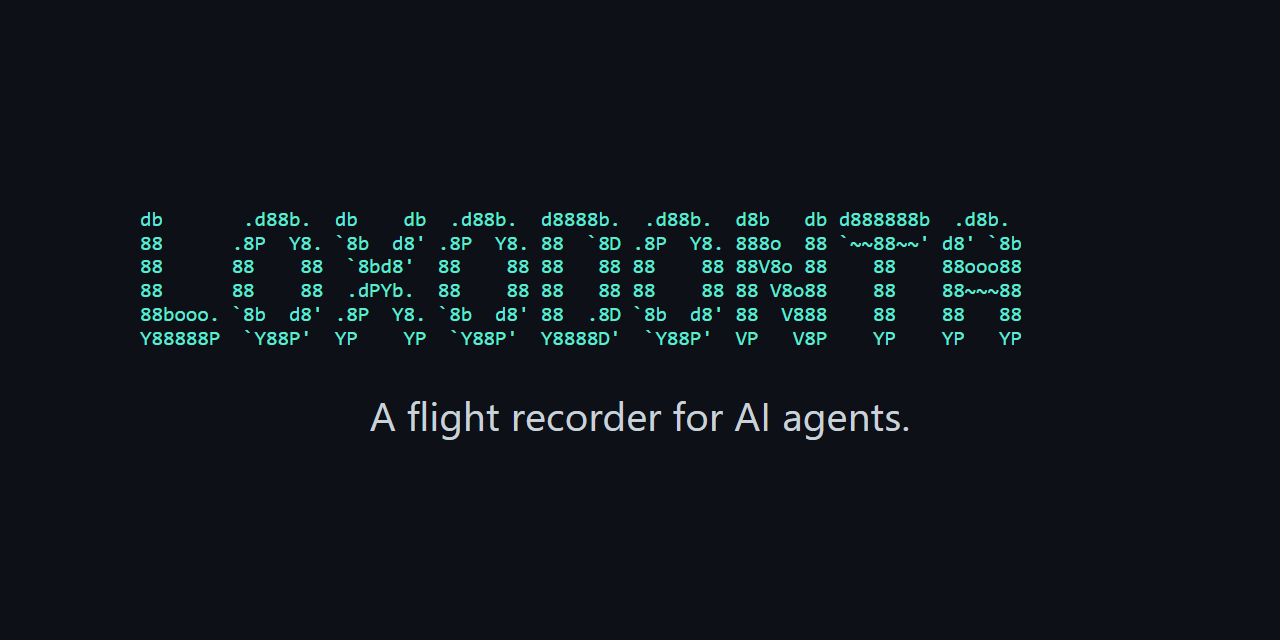
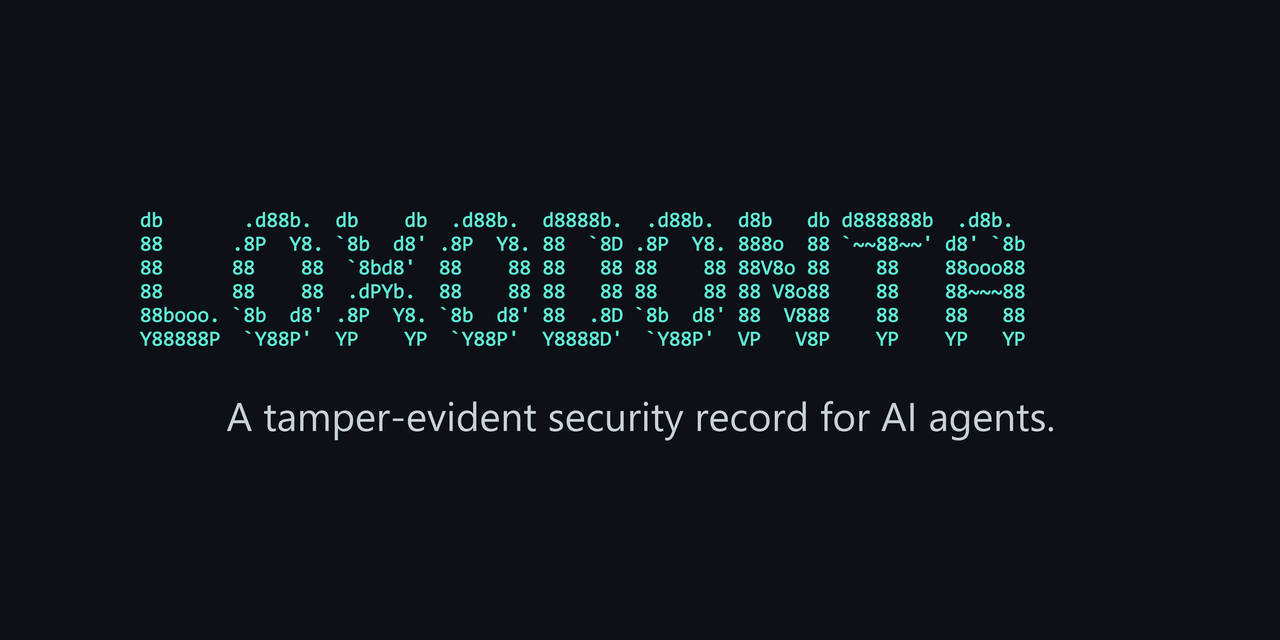
Social preview: the README's current tagline, rebuilt by a tool
docs/images/social-preview.png still read "A flight recorder for AI
agents." while the README's first line has been "A tamper-evident
security record for AI agents." since 2026-10-02, and GitHub serves
the image on every shared link. tools/build_social_preview.py now
draws the card from docs/images/wordmark.svg and the README's bold
tagline line, in the fonts and at the placement measured from the
first card (#133), 1280 by 640, critical chunks only. Pillow is that
script's dependency alone; the four shipped tools stay on the
standard library. Uploading the result stays a by-hand step in the
repository settings.

Changed region(s): [[0.0938, 0.3125, 0.8125, 0.5625], [0.1875, 0.625, 0.8125, 0.6875]]

diff --git a/tools/build_social_preview.py b/tools/build_social_preview.py
@@ -1,0 +1,113 @@
+"""Build docs/images/social-preview.png, the GitHub social preview.
+
+The image is the README's first screen as a 1280 by 640 card: the
+figlet wordmark from docs/images/wordmark.svg, in its dark-theme
+fill on GitHub's dark ground, and the README's tagline under it,
+character for character. Both are read from those two files, so the
+card cannot drift from the README by hand: change the tagline there,
+run this, and upload the result in the repository settings (Settings,
+General, Social preview), which has no API.
+
+    pip install Pillow
+    python tools/build_social_preview.py
+
+Pillow is the one dependency, and it is this script's alone: the
+tools that ship (loxodonta.py, supervisor.py, receiver.py,
+verifier.py) stay on the standard library. The fonts are the first
+found of each list below; on Windows that is Consolas and Segoe UI,
+which the first card (#133) was drawn in. The placement numbers were
+measured from that card, so a rebuild lands where it did. Text is
+drawn at four times the size and scaled down, which smooths the
+edges. The file carries the critical chunks only:
+no text, no timestamp, no colour profile.
+"""
+
+import os
+import sys
+import xml.etree.ElementTree as ET
+
+try:
+    from PIL import Image, ImageDraw, ImageFont
+except ImportError:
+    sys.exit("this script needs Pillow: pip install Pillow")
+
+ROOT = os.path.dirname(os.path.dirname(os.path.abspath(__file__)))
+README = os.path.join(ROOT, "README.md")
+WORDMARK = os.path.join(ROOT, "docs", "images", "wordmark.svg")
+OUT = os.path.join(ROOT, "docs", "images", "social-preview.png")
+
+WIDTH, HEIGHT = 1280, 640
+BACKGROUND = "#0d1117"    # GitHub's dark ground
+WORDMARK_FILL = "#5eead4"  # the wordmark's dark-theme fill
+TAGLINE_FILL = "#c9d1d9"   # GitHub's dark-theme text
+
+# Measured from the first card: where the ink starts, not the glyph box.
+WORDMARK_SIZE = 21         # px; the lines are 23.75 px apart
+WORDMARK_PITCH = 23.75
+WORDMARK_INK_LEFT, WORDMARK_INK_TOP = 140, 212
+TAGLINE_SIZE = 40
+TAGLINE_INK_TOP = 401      # centred on the width
+SCALE = 4                  # drawn at this multiple, then scaled down
+
+MONO_FONTS = ["C:/Windows/Fonts/consola.ttf",
+              "/usr/share/fonts/truetype/dejavu/DejaVuSansMono.ttf",
+              "/System/Library/Fonts/Menlo.ttc"]
+TEXT_FONTS = ["C:/Windows/Fonts/segoeui.ttf",
+              "/usr/share/fonts/truetype/dejavu/DejaVuSans.ttf",
+              "/System/Library/Fonts/Helvetica.ttc"]
+
+
+def first_font(paths, size):
+    for path in paths:
+        if os.path.isfile(path):
+            return ImageFont.truetype(path, size * SCALE)
+    sys.exit("no font found; tried " + ", ".join(paths))
+
+
+def wordmark_lines():
+    tree = ET.parse(WORDMARK)
+    ns = "{http://www.w3.org/2000/svg}"
+    return [node.text for node in tree.getroot().iter(ns + "text")]
+
+
+def tagline():
+    with open(README, encoding="utf-8") as f:
+        for line in f:
+            line = line.strip()
+            if line.startswith("**") and line.endswith("**"):
+                return line[2:-2]
+    sys.exit("no bold tagline line found in README.md")
+
+
+def ink(lines, font, pitch, stroke=0):
+    """A mask of the lines drawn at (0, 0), cropped to its ink."""
+    canvas = Image.new("L", (WIDTH * SCALE, HEIGHT * SCALE), 0)
+    draw = ImageDraw.Draw(canvas)
+    for n, line in enumerate(lines):
+        draw.text((0, round(n * pitch * SCALE)), line, font=font, fill=255,
+                  stroke_width=stroke, stroke_fill=255)
+    return canvas.crop(canvas.getbbox())
+
+
+def main():
+    big = Image.new("RGB", (WIDTH * SCALE, HEIGHT * SCALE), BACKGROUND)
+
+    # A quarter pixel of stroke: the weight the first card's renderer
+    # gave the mark, which a plain draw lands a little under.
+    mark = ink(wordmark_lines(), first_font(MONO_FONTS, WORDMARK_SIZE),
+               WORDMARK_PITCH, stroke=1)
+    big.paste(WORDMARK_FILL,
+              (WORDMARK_INK_LEFT * SCALE, WORDMARK_INK_TOP * SCALE), mark)
+
+    line = ink([tagline()], first_font(TEXT_FONTS, TAGLINE_SIZE), 0)
+    left = (WIDTH * SCALE - line.width) // 2
+    big.paste(TAGLINE_FILL, (left, TAGLINE_INK_TOP * SCALE), line)
+
+    card = big.resize((WIDTH, HEIGHT), Image.LANCZOS)
+    card.save(OUT, "PNG")
+    print("wrote", os.path.relpath(OUT, ROOT), "with the tagline:",
+          tagline())
+
+
+if __name__ == "__main__":
+    main()
